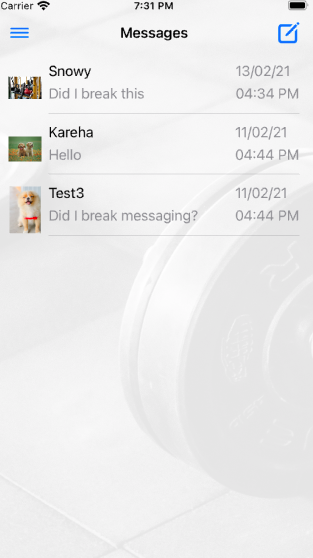
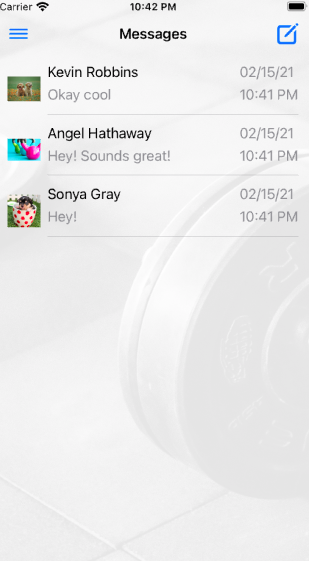
changing other pics

diff --git a/README.md b/README.md
@@ -7,15 +7,17 @@ We're in a pandemic.. Gyms are closed.. And you want to stay active. I get it. B
 <!-- ![plot](./images/homeview_small.png) ![plot](./images/homeview_small.png) ![plot](./images/homeview_small.png)
 ![plot](./images/homeview_small.png) -->
 
-### Logo Screen: 
+### Logo Screen
 ![plot](./images/homeview.png)
 
 ### User Profile
 ![plot](./images/user-profile.png)
 
-<!-- ![plot](./images/userprofile.png)
+### Messaging
+![plot](./images/messages.png)
+
+### List of Users
 ![plot](./images/users.png)
-![plot](./images/messages.png) -->
 
 # Set Up
 ### Tech Stack
